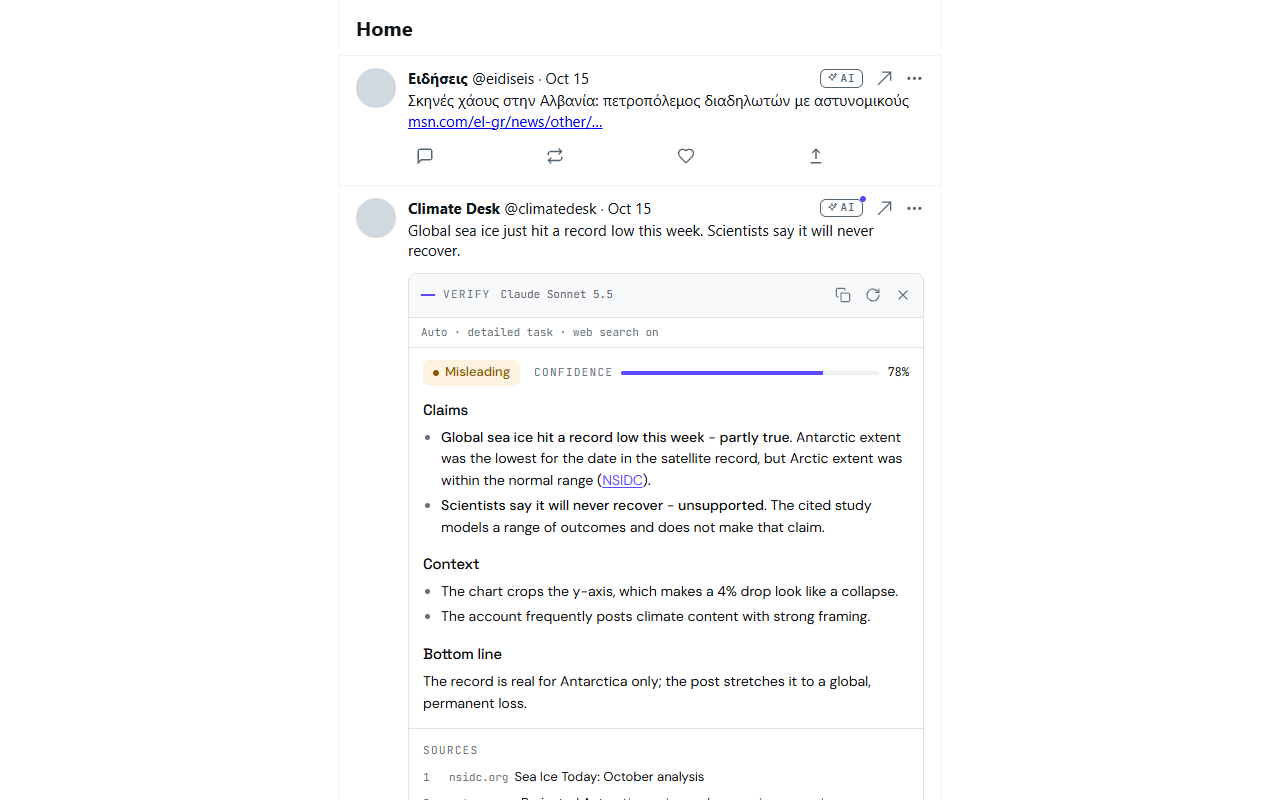
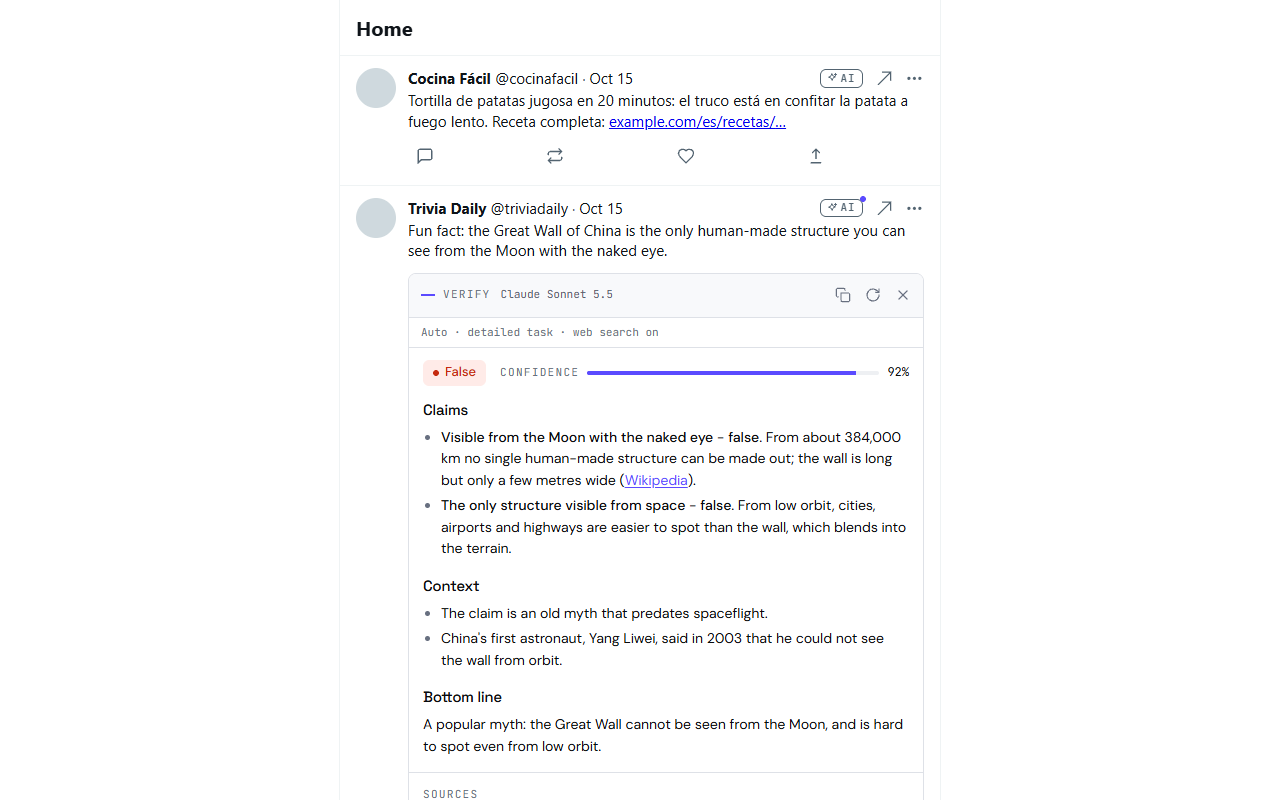
Replace sample posts in screenshots and tests with fictional ones

diff --git a/harness/chrome-mock.js b/harness/chrome-mock.js
@@ -52,25 +52,29 @@
   const sample = {
     // A model that echoes the full link, to check the card still shows it short.
     translate: [
-      "Arnavutluk'ta şiddetli sahneler: protestocular polisle taş atışıyor ",
-      "https://msn.com/el-gr/news/other/%CF%83%CE%BA%CE%B7%CE%BD%CE%AD%CF%82-%CF%87%CE%AC%CE%BF%CF%85%CF%82-%CF%83%CF%84%CE%B7%CE%BD-%CE%B1%CE%BB%CE%B2%CE%B1%CE%BD%CE%AF%CE%B1-%CF%80%CE%B5%CF%84%CF%81%CE%BF%CF%80%CF%8C%CE%BB%CE%B5%CE%BC%CE%BF%CF%82/ar-AA2ej0J2?ocid=msedgdhp&pc=U531&cvid=6ad0647a45b747358f747590950bea6a",
+      "Sulu patatesli omlet 20 dakikada: püf noktası patatesi kısık ateşte yağda pişirmek. Tarifin tamamı: ",
+      "https://example.com/es/recetas/tortilla-de-patatas-jugosa-en-veinte-minutos-con-cebolla-caramelizada?utm_source=x&utm_medium=social&utm_campaign=otono",
     ],
     verify: [
-      "VERDICT: misleading | CONFIDENCE: 78\n",
+      "VERDICT: false | CONFIDENCE: 92\n",
       "## Claims\n",
-      "- **Global sea ice hit a record low this week** - **partly true**. Antarctic extent was the lowest for the date in the satellite record, but Arctic extent was within the normal range ([NSIDC](https://nsidc.org/sea-ice-today)).\n",
-      "- **Scientists say it will never recover** - **unsupported**. The cited study models a range of outcomes and does not make that claim.\n\n",
+      "- **Visible from the Moon with the naked eye** - **false**. From about 384,000 km no single human-made structure can be made out; the wall is long but only a few metres wide ([Wikipedia](https://en.wikipedia.org/wiki/Great_Wall_of_China)).\n",
+      "- **The only structure visible from space** - **false**. From low orbit, cities, airports and highways are easier to spot than the wall, which blends into the terrain.\n\n",
       "## Context\n",
-      "- The chart crops the y-axis, which makes a 4% drop look like a collapse.\n",
-      "- The account frequently posts climate content with strong framing.\n\n",
+      "- The claim is an old myth that predates spaceflight.\n",
+      "- China's first astronaut, Yang Liwei, said in 2003 that he could not see the wall from orbit.\n\n",
       "## Bottom line\n",
-      "The record is real for Antarctica only; the post stretches it to a global, permanent loss.",
+      "A popular myth: the Great Wall cannot be seen from the Moon, and is hard to spot even from low orbit.",
+    ],
+    summarize: [
+      "**TL;DR:** The team fixed CI cache misses by keying caches on the lockfile hash instead of the branch name.\n",
+      "- Cache hit rate on CI is now 94%.\n",
+      "- The write-up explains why branch-based keys kept missing.",
     ],
   };
   const sources = [
-    { url: "https://nsidc.org/sea-ice-today/analyses", title: "Sea Ice Today: October analysis" },
-    { url: "https://www.nature.com/articles/s41558-026-0001", title: "Projected Antarctic sea ice under warming scenarios" },
-    { url: "https://apnews.com/article/antarctic-sea-ice-record", title: "Antarctic sea ice reaches record low for October" },
+    { url: "https://en.wikipedia.org/wiki/Great_Wall_of_China", title: "Great Wall of China" },
+    { url: "https://en.wikipedia.org/wiki/Yang_Liwei", title: "Yang Liwei" },
   ];
 
   const store = {
@@ -80,7 +84,7 @@
     history: [
       {
         key: "h1",
-        tweet: { id: "1846000000000000001", url: "https://x.com/example/status/1846000000000000001", authorName: "Climate Desk", handle: "climatedesk", text: "Global sea ice just hit a record low this week. Scientists say it will never recover." },
+        tweet: { id: "1846000000000000001", url: "https://x.com/triviadaily/status/1846000000000000001", authorName: "Trivia Daily", handle: "triviadaily", text: "Fun fact: the Great Wall of China is the only human-made structure you can see from the Moon with the naked eye." },
         result: { action: "verify", text: sample.verify.join(""), sources, provider: "anthropic", model: "claude-sonnet-5-5", modelLabel: "Claude Sonnet 5.5", usage: { inputTokens: 9400, cachedInputTokens: 0, outputTokens: 610, webSearches: 2 }, costUsd: 0.0449, ms: 8400, ts: now - 3 * day, cached: false, useWeb: true, auto: true },
       },
     ],

diff --git a/src/content/tweet.test.ts b/src/content/tweet.test.ts
@@ -7,16 +7,16 @@ import { extractTweet, postText, readText } from "./tweet";
 // the visible part ends in an ellipsis.
 const POST = `
   <article data-testid="tweet">
-    <div data-testid="User-Name"><a href="/news"><span>News Desk</span></a><a href="/news"><span>@news</span></a></div>
-    <a href="/news/status/42"><time datetime="2026-10-16T08:00:00.000Z">Oct 16</time></a>
-    <div data-testid="tweetText" lang="el">Σκηνές χάους <a href="https://t.co/abc"><span>https://</span><span>msn.com/el-gr/news/other/</span><span>%CF%83%CE%BA%CE%B7%CE%BD%CE%AD%CF%82-%CF%87%CE%AC%CE%BF%CF%85%CF%82-%CF%83%CF%84%CE%B7%CE%BD-%CE%B1%CE%BB%CE%B2%CE%B1%CE%BD%CE%AF%CE%B1-%CF%80%CE%B5%CF%84%CF%81%CE%BF%CF%80%CF%8C%CE%BB%CE%B5%CE%BC%CE%BF%CF%82/ar-AA2ej0J2?ocid=msedgdhp&amp;pc=U531</span><span>…</span></a> via <a href="/someone">@someone</a></div>
+    <div data-testid="User-Name"><a href="/kitchen"><span>Kitchen Notes</span></a><a href="/kitchen"><span>@kitchen</span></a></div>
+    <a href="/kitchen/status/42"><time datetime="2026-10-16T08:00:00.000Z">Oct 16</time></a>
+    <div data-testid="tweetText" lang="el">Σπανακόπιτα για όλη την οικογένεια <a href="https://t.co/abc"><span>https://</span><span>example.com/el-gr/recipes/</span><span>%CF%83%CF%85%CE%BD%CF%84%CE%B1%CE%B3%CE%AE-%CE%B3%CE%B9%CE%B1-%CF%83%CF%80%CE%B1%CE%BD%CE%B1%CE%BA%CF%8C%CF%80%CE%B9%CF%84%CE%B1-%CE%BC%CE%B5-%CF%86%CF%81%CE%AD%CF%83%CE%BA%CE%BF-%CF%83%CF%80%CE%B1%CE%BD%CE%AC%CE%BA%CE%B9-%CE%BA%CE%B1%CE%B9-%CF%86%CE%AD%CF%84%CE%B1-%CF%83%CF%84%CE%BF%CE%BD-%CF%86%CE%BF%CF%8D%CF%81%CE%BD%CE%BF/r-AA2ej0J2?ocid=newsletter&amp;pc=U531</span><span>…</span></a> via <a href="/someone">@someone</a></div>
   </article>`;
 
 describe("reading links from a post", () => {
   it("sends a short, decoded link to the model and leaves mentions alone", () => {
     document.body.innerHTML = POST;
     const tweet = extractTweet(document.querySelector("article")!)!;
-    expect(tweet.text).toContain("msn.com/el-gr/news/other/σκηνές-χάους");
+    expect(tweet.text).toContain("example.com/el-gr/recipes/συνταγή-για-σπανακόπιτα");
     expect(tweet.text).not.toContain("%CF");
     expect(tweet.text).not.toContain("ocid=");
     expect(tweet.text).toContain("@someone");
@@ -26,8 +26,8 @@ describe("reading links from a post", () => {
   it("keeps the whole address when copying", () => {
     document.body.innerHTML = POST;
     const article = document.querySelector("article")!;
-    expect(postText(article)).toContain("ocid=msedgdhp");
-    expect(readText(article.querySelector('[data-testid="tweetText"]')!, true)).toContain("https://msn.com");
+    expect(postText(article)).toContain("ocid=newsletter");
+    expect(readText(article.querySelector('[data-testid="tweetText"]')!, true)).toContain("https://example.com");
   });
 });
 
@@ -37,7 +37,7 @@ describe("other kinds of posts", () => {
       <article data-testid="tweet">
         <div data-testid="User-Name"><a href="/writer"><span>Writer</span></a><span>@writer</span></div>
         <a href="/writer/status/7"><time datetime="2026-10-16T08:00:00.000Z">Oct 16</time></a>
-        <div data-testid="tweetText"><a href="https://t.co/xyz"><span>https://</span><span>x.com/i/article/2110261256766566403</span></a></div>
+        <div data-testid="tweetText"><a href="https://t.co/xyz"><span>https://</span><span>x.com/i/article/1900000000000000001</span></a></div>
       </article>`;
     const tweet = extractTweet(document.querySelector("article")!)!;
     expect(tweet.isArticle).toBe(true);

diff --git a/harness/x.html b/harness/x.html
@@ -215,21 +215,33 @@
       // Links are marked up the way X does it: hidden scheme and tail around a visible middle.
       const posts = [
         {
-          name: "Ειδήσεις",
-          handle: "eidiseis",
+          name: "Cocina Fácil",
+          handle: "cocinafacil",
           id: "1846000000000000004",
-          lang: "el",
-          html: 'Σκηνές χάους στην Αλβανία: πετροπόλεμος διαδηλωτών με αστυνομικούς <a href="https://t.co/abc"><span style="display:none">https://</span><span>msn.com/el-gr/news/other/</span><span style="display:none">%CF%83%CE%BA%CE%B7%CE%BD%CE%AD%CF%82-%CF%87%CE%AC%CE%BF%CF%85%CF%82-%CF%83%CF%84%CE%B7%CE%BD-%CE%B1%CE%BB%CE%B2%CE%B1%CE%BD%CE%AF%CE%B1-%CF%80%CE%B5%CF%84%CF%81%CE%BF%CF%80%CF%8C%CE%BB%CE%B5%CE%BC%CE%BF%CF%82/ar-AA2ej0J2?ocid=msedgdhp&amp;pc=U531&amp;cvid=6ad0647a45b747358f747590950bea6a</span><span>…</span></a>',
+          lang: "es",
+          html: 'Tortilla de patatas jugosa en 20 minutos: el truco está en confitar la patata a fuego lento. Receta completa: <a href="https://t.co/abc"><span style="display:none">https://</span><span>example.com/es/recetas/</span><span style="display:none">tortilla-de-patatas-jugosa-en-veinte-minutos-con-cebolla-caramelizada?utm_source=x&amp;utm_medium=social&amp;utm_campaign=otono</span><span>…</span></a>',
         },
-        { name: "Climate Desk", handle: "climatedesk", id: "1846000000000000001", lang: "en", text: "Global sea ice just hit a record low this week. Scientists say it will never recover." },
-        { name: "Örnek Haber", handle: "ornekhaber", id: "1846000000000000002", lang: "tr", text: "Yarın İstanbul'da toplu taşıma ücretsiz mi olacak? Belediye henüz resmi bir açıklama yapmadı." },
+        {
+          name: "Trivia Daily",
+          handle: "triviadaily",
+          id: "1846000000000000001",
+          lang: "en",
+          text: "Fun fact: the Great Wall of China is the only human-made structure you can see from the Moon with the naked eye.",
+        },
+        {
+          name: "Hava Notları",
+          handle: "havanotlari",
+          id: "1846000000000000002",
+          lang: "tr",
+          text: "Hafta sonu İstanbul'da hava güneşli. Pazar akşamı hafif yağmur bekleniyor, şemsiyeyi unutmayın.",
+        },
         {
           name: "Dev Notes",
           handle: "devnotes",
           id: "1846000000000000003",
           lang: "en",
           text: "Shipped: our build cache now hits 94% on CI. Wrote up what changed and why the old keys kept missing.",
-          card: "devnotes.blog · How we fixed our CI cache keys",
+          card: "example.dev · How we fixed our CI cache keys",
         },
       ];
       const main = document.querySelector("main");

diff --git a/src/shared/readable.test.ts b/src/shared/readable.test.ts
@@ -48,20 +48,20 @@ describe("extractReadable", () => {
 describe("parseXArticle", () => {
   // Same shape as X's logged-out post page: blocks of [key, type, text] JSON inside a JS string.
   const blocks = [
-    ["a1", "unstyled", "Hanwha and Magnet Defense show an uncrewed vessel"],
-    ["a2", "header-two", "Development"],
-    ["a3", "unstyled", 'A scale model was shown, with "modular" weapons.'],
-    ["a4", "unordered-list-item", "Reconnaissance"],
+    ["a1", "unstyled", "The city library opens a new reading room on Monday"],
+    ["a2", "header-two", "What changes"],
+    ["a3", "unstyled", 'It has "quiet" desks and long opening hours.'],
+    ["a4", "unordered-list-item", "Open until 22:00"],
   ];
-  const html = `<meta property="og:description" content="Hanwha and Magnet Defense reveal the M38" />
+  const html = `<meta property="og:description" content="A new reading room at the city library" />
     <script>$_TSR.router=($R=>$R[0]={l:$R[7]={articleDocument:$R[8]={contentKey:${JSON.stringify(JSON.stringify(blocks))},entityMap:[]}}})</script>`;
 
   it("rebuilds the article text from the embedded blocks", () => {
     const article = parseXArticle(html);
-    expect(article?.title).toBe("Hanwha and Magnet Defense reveal the M38");
+    expect(article?.title).toBe("A new reading room at the city library");
     expect(article?.site).toBe("X Article");
     expect(article?.text).toBe(
-      'Hanwha and Magnet Defense show an uncrewed vessel\n\n## Development\n\nA scale model was shown, with "modular" weapons.\n\n- Reconnaissance',
+      'The city library opens a new reading room on Monday\n\n## What changes\n\nIt has "quiet" desks and long opening hours.\n\n- Open until 22:00',
     );
   });
 
@@ -72,7 +72,7 @@ describe("parseXArticle", () => {
 
 describe("tcoTarget", () => {
   it("reads the destination from t.co's redirect page", () => {
-    const html = `<head><noscript><META http-equiv="refresh" content="0;URL=https://x.com/i/article/2110261256766566403"></noscript><title>https://x.com/i/article/2110261256766566403</title></head>`;
-    expect(tcoTarget(html)).toBe("https://x.com/i/article/2110261256766566403");
+    const html = `<head><noscript><META http-equiv="refresh" content="0;URL=https://x.com/i/article/1900000000000000001"></noscript><title>https://x.com/i/article/1900000000000000001</title></head>`;
+    expect(tcoTarget(html)).toBe("https://x.com/i/article/1900000000000000001");
   });
 });

diff --git a/src/shared/format.test.ts b/src/shared/format.test.ts
@@ -3,12 +3,12 @@ import { isUrlText, shortUrl } from "./format";
 import { parseInline } from "./markdown";
 
 const LONG =
-  "https://msn.com/el-gr/news/other/%CF%83%CE%BA%CE%B7%CE%BD%CE%AD%CF%82-%CF%87%CE%AC%CE%BF%CF%85%CF%82-%CF%83%CF%84%CE%B7%CE%BD-%CE%B1%CE%BB%CE%B2%CE%B1%CE%BD%CE%AF%CE%B1/ar-AA2ej0J2?ocid=msedgdhp&pc=U531&cvid=6ad0647a45b747358f747590950bea6a";
+  "https://example.com/el-gr/recipes/%CF%83%CF%85%CE%BD%CF%84%CE%B1%CE%B3%CE%AE-%CE%B3%CE%B9%CE%B1-%CF%83%CF%80%CE%B1%CE%BD%CE%B1%CE%BA%CF%8C%CF%80%CE%B9%CF%84%CE%B1-%CE%BC%CE%B5-%CF%86%CF%81%CE%AD%CF%83%CE%BA%CE%BF-%CF%83%CF%80%CE%B1%CE%BD%CE%AC%CE%BA%CE%B9-%CE%BA%CE%B1%CE%B9-%CF%86%CE%AD%CF%84%CE%B1-%CF%83%CF%84%CE%BF%CE%BD-%CF%86%CE%BF%CF%8D%CF%81%CE%BD%CE%BF/r-AA2ej0J2?ocid=newsletter&pc=U531&cvid=6ad0647a45b747358f747590950bea6a";
 
 describe("shortUrl", () => {
   it("decodes, drops scheme and query, and cuts long addresses", () => {
     const short = shortUrl(LONG);
-    expect(short.startsWith("msn.com/el-gr/news/other/σκηνές-χάους")).toBe(true);
+    expect(short.startsWith("example.com/el-gr/recipes/συνταγή-για-σπανακόπιτα")).toBe(true);
     expect(short).not.toContain("%");
     expect(short).not.toContain("?");
     expect([...short].length).toBeLessThanOrEqual(60);
@@ -27,7 +27,7 @@ describe("shortUrl", () => {
 
 describe("isUrlText", () => {
   it("tells addresses from mentions, hashtags and cashtags", () => {
-    expect(isUrlText("msn.com/el-gr/news")).toBe(true);
+    expect(isUrlText("example.com/el-gr/recipes")).toBe(true);
     expect(isUrlText("https://github.com/owner/repo")).toBe(true);
     expect(isUrlText("@someone")).toBe(false);
     expect(isUrlText("#news")).toBe(false);
@@ -41,7 +41,7 @@ describe("links in answers", () => {
     const [link] = parseInline(LONG);
     expect(link?.type).toBe("link");
     if (link?.type !== "link") return;
-    expect(link.href).toContain("ocid=msedgdhp");
+    expect(link.href).toContain("ocid=newsletter");
     expect(link.children).toEqual([{ type: "text", text: shortUrl(LONG) }]);
   });
 
